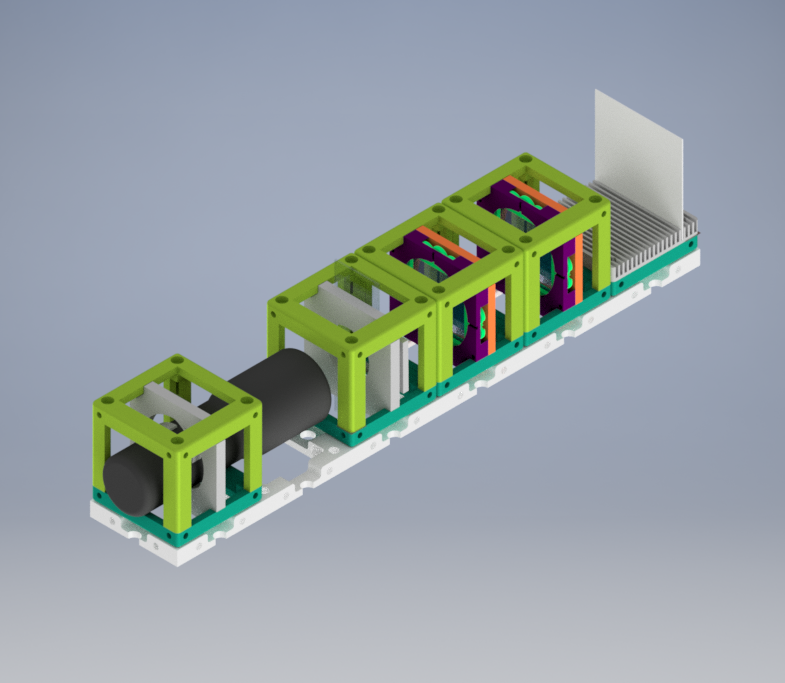
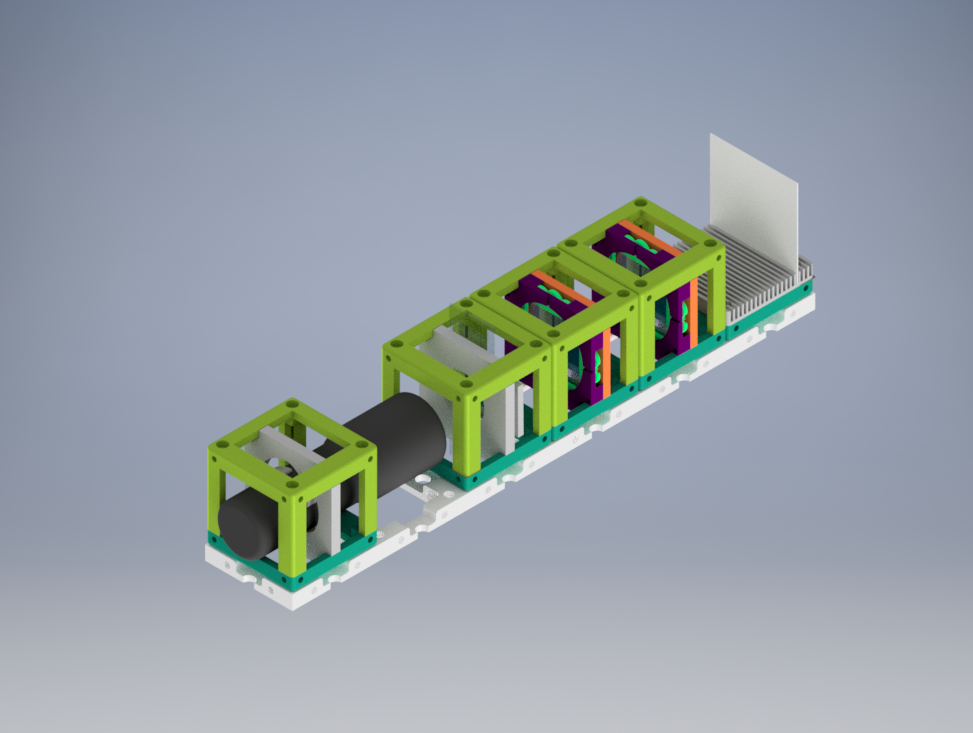
updates

Changed region(s): [[0.0917, 0.123, 0.9172, 0.8302]]

diff --git a/APPLICATIONS/APP_POL_Crossed_Polarizers/Readme.md b/APPLICATIONS/APP_POL_Crossed_Polarizers/Readme.md
@@ -33,50 +33,56 @@ Time to build a Crossed Polarizers setup!
 
 |  Name | Properties  |  Price | Link  | # |
 |---|---|---|---|---|
-|  4×1 Baseplate | - | 16.44 €  | [Base-plate](../../CAD/ASSEMBLY_Baseplate)  | 2|
+|  4×1 Baseplate | Skeleton of the System | 8.22 €  | [Base-plate](../../CAD/ASSEMBLY_Baseplate)  | 1|
 |  Module: Polarizer Cube | Linearly Polarizing Filter  |  €  | [Linear Polarizer](../../CAD/ASSEMBLY_POL_Polarizer_Holder)  | 2|
-|  Module: Sample Holder Cube | To insert the sample  | 2.5 €  | [Sample Holder](../../CAD/ASSEMBLY_CUBE_Sample_Holder)  | 1|
-|  Module: Sample Holder Comb | To hold the screen | 1.4 €  | [Screen](../../CAD/ASSEMBLY_CUBE_Sample_Comb)  | 1|
-|  Module: Flashlight Lamp Cube | -  | €  | [Flashlight](../../CAD/CAD/ASSEMBLY_CUBE_Flashlight)  | 1|
+|  Module: Sample Holder Cube | Holding the Sample (Not Used in Practice) | 2.5 €  | [Sample Holder](../../CAD/ASSEMBLY_CUBE_Sample_Holder)  | 1|
+|  Module: Display Screen | Holding the Screen (Not Used in Practice) | 1.4 €  | [Screen](../../CAD/ASSEMBLY_CUBE_Sample_Comb)  | 1|
+|  Module: Flashlight Lamp Cube | Light Source  | €  | [Flashlight](../../CAD/ASSEMBLY_CUBE_Flashlight)  | 1|
 
 
 ### <img src="./IMAGES/P.png" width="40">Parts to print
 
-* 2× [Base-plate 4×1](./STL/Assembly_base_4x1.stl)
-* 5× [Cube base 1×1](.STL/10_Cube_1x1_v2.stl)
-* 5x [Cube lid 1×1](./STL/10_Lid_1x1_v2.stl)
+* 1× [Base-plate 4×1](./STL/Assembly_base_4x1.stl)
+* 2× [Cube base 1×1](.STL/10_Cube_1x1_v2.stl)
+* 2x [Cube lid 1×1](./STL/10_Lid_1x1_v2.stl)
 * 2× [Polarizer Guide](./STL/20_Cube_Insert_Polarizer_Guide.stl)
 * 2× [Polarizer Wheel](./STL/20_Cube_Insert_Polarizer_Wheel.stl)
 * 2× [Polarizer Lid](./STL/20_Cube_Insert_Polarizer_Lid.stl)
-* 1× [Sample Holder](./STL/20_Cube_insert_Sample_holder.stl)
-* 1x [Sample Holder Clamp](./STL/20_Cube_Insert_Sample_clamp.stl)
-* 1× [Flashlight Holder](./STL/20_Cube_Insert_Holder-okular_v2.stl)
-* 1x [Sample Holder - comb](./STL/20_Cube_Sampleholder.stl)
+* _NOT USED_ 1× [Sample Holder](./STL/20_Cube_insert_Sample_holder.stl)
+* _NOT USED_ 1x [Sample Holder Clamp](./STL/20_Cube_Insert_Sample_clamp.stl)
+* _NOT USED_ 1x [Sample Holder - comb](./STL/20_Cube_Sampleholder.stl)
+*_NOT USED_ 1× [Flashlight Holder](./STL/20_Cube_Insert_Holder-okular_v2.stl)
+
 
 
 ## <img src="./IMAGES/B.png" width="40"> Additional components
 * Check out the [RESOURCES](../../TUTORIALS/RESOURCES) for more information!
-* 1× Linear Polarizer Film [🢂](https://amazon.de/-/en/Polarizing-A4-Sheet-Polarizer-Educational-Polarized/dp/B06XWXRB75/ref=pd_sbs_421_3/262-2115536-7173904?_encoding=UTF8&pd_rd_i=B06XWXRB75&pd_rd_r=b88e7340-b061-4e0b-8daa-8ec533fd7c71&pd_rd_w=qlkAY&pd_rd_wg=At9EZ&pf_rd_p=a03ac387-6e4d-4f6b-96b6-1853da0bb37b&pf_rd_r=49HX2Z4Q5KRZSQ2FWRQR&psc=1&refRID=49HX2Z4Q5KRZSQ2FWRQR)
+* 1× Linear Polarizing Sheet [🢂](https://amazon.de/-/en/Polarizing-A4-Sheet-Polarizer-Educational-Polarized/dp/B06XWXRB75/ref=pd_sbs_421_3/262-2115536-7173904?_encoding=UTF8&pd_rd_i=B06XWXRB75&pd_rd_r=b88e7340-b061-4e0b-8daa-8ec533fd7c71&pd_rd_w=qlkAY&pd_rd_wg=At9EZ&pf_rd_p=a03ac387-6e4d-4f6b-96b6-1853da0bb37b&pf_rd_r=49HX2Z4Q5KRZSQ2FWRQR&psc=1&refRID=49HX2Z4Q5KRZSQ2FWRQR)
 * 16× 5mm Ball magnets [🢂](https://www.magnetmax.de/Neodym-Kugelmagnete/Magnetkugel-Kugelmagnet-O-5-0-mm-Neodym-vernickelt-N40-haelt-400-g::158.html)
-* × - 24× Screws DIN912 ISO 4762 M3×12 mm [🢂](https://eshop.wuerth.de/Zylinderschraube-mit-Innensechskant-SHR-ZYL-ISO4762-88-IS25-A2K-M3X12/00843%20%2012.sku/de/DE/EUR/)
-* 1× flashlight [🢂](https://www.pollin.de/p/led-taschenlampe-alu-5-w-cree-led-3xmicro-schwarz-b-ware-535448)
-* Sample
-* White paper or cardboard as a screen
+* 8× (or 16× for both top and surface) Screws DIN912 ISO 4762 - M3×12 mm [🢂](https://eshop.wuerth.de/Zylinderschraube-mit-Innensechskant-SHR-ZYL-ISO4762-88-IS25-A2K-M3X12/00843%20%2012.sku/de/DE/EUR/)
+* _NOT USED_ 1× flashlight [🢂](https://www.pollin.de/p/led-taschenlampe-alu-5-w-cree-led-3xmicro-schwarz-b-ware-535448)
+* _NOT USED_ Sample
+* _NOT USED_ White paper or cardboard as a screen
 
 <p align="center">
-<img src="./IMAGES/Assembly_Crossed_Polarizers_2.png"
-width="350">
+<img src="./IMAGES/Assembly_Crossed_Polarizer.png"
+width="450">
 </p>  
 
 ## <img src="./IMAGES/A.png" width="40"> Assembly
 
 * [Baseplate](../../CAD/ASSEMBLY_Baseplate)
 * [Polarizer Cube](../../CAD/ASSEMBLY_POL_Polarizer_Holder)
-* [Sample Holder Cube](../../CAD/ASSEMBLY_CUBE_Sample_Holder)
-* [Sample Holder for Screen](../../CAD/ASSEMBLY_CUBE_Sample_Comb)
-* [Flashlight cube](../../CAD/ASSEMBLY_CUBE_Flashlight) : Simply insert the holder in a cube and close it as any other
+*  _NOT USED_ [Sample Holder Cube](../../CAD/ASSEMBLY_CUBE_Sample_Holder)
+*  _NOT USED_ [Sample Holder for Screen](../../CAD/ASSEMBLY_CUBE_Sample_Comb)
+*  _NOT USED_ [Flashlight cube](../../CAD/ASSEMBLY_CUBE_Flashlight) : Simply insert the holder in a cube and close it as any other
 
+If all written modules are used in the experiment, the setup will look like:
 
+<p align="center">
+<img src="./IMAGES/Assembly_Crossed_Polarizers_3.png"
+width="450">
+</p>  
 
 ## <img src="./IMAGES/E.png" width="40"> Results
 

diff --git a/TheBOX/PolarBOX/Readme.md b/TheBOX/PolarBOX/Readme.md
@@ -28,11 +28,16 @@ width="450">
 
 Polarized light can be produced from the common physical processes such as absorption, reflection, diffraction (or scattering), and birefringence.
 
-*add box photo here*
 <p align="center">
-<img src="./IMAGES/" width="640">
+<img src="./IMAGES/PolarBOX.JPG"
+width="350">
 </p>
 
+Box opening for a PolarBOX user:
+<p align="center">
+<img src="./IMAGES/polarbox-box-opening.gif"
+width="350">
+</p>
 
 ## <img src="./IMAGES/D_B_P_A.png" height="40"> Build the BOX
 A list of 3D-printed parts and necessary components is found in [BUILD_ME](./BUILD_ME), together with assembly guidelines and some printing tips and tricks.
@@ -45,6 +50,7 @@ Which experiments can we build with this box? Let's see!
 [LINK](../../APPLICATIONS/APP_POL_Crossed_Polarizers)
 
 <p align="center">
+<a href="https://github.com/bionanoimaging/UC2-GIT/tree/master/APPLICATIONS/APP_POL_Crossed_Polarizers">
 <img src="./IMAGES/crossed_polarizers_diagram_2.png"
 width="640">
 </p>
@@ -54,17 +60,28 @@ width="640">
 [LINK](../../APPLICATIONS/APP_POL_Three_Polarizers)
 
 <p align="center">
+<a href="https://github.com/bionanoimaging/UC2-GIT/tree/master/APPLICATIONS/APP_POL_Three_Polarizers">
 <img src="./IMAGES/three_polarizers_diagram.png"
 width="840">
 </p>
 
+### 3. Polarization Experiment using Optically Active Solution
+[LINK](../../APPLICATIONS/APP_POL_Polarization_using_optically_active_solution)
 
-### 3. Circular Polarizer
+<p align="center">
+<a href="https://github.com/bionanoimaging/UC2-GIT/tree/master/APPLICATIONS/APP_POL_Polarization_using_optically_active_solution">
+<img src="./IMAGES/Active_Solution_Experiment.png"
+width="840">
+</p>
+
+
+### 4. Circular Polarizer
 [LINK](../../APPLICATIONS/APP_POL_Circular_Polarizer)
 
 clockwise circular Polarizer:
 
 <p align="center">
+<a href="https://github.com/bionanoimaging/UC2-GIT/tree/master/APPLICATIONS/APP_POL_Circular_Polarizer">
 <img src="./IMAGES/right_circular_polarizers_diagram.png"
 width="640">
 </p>
@@ -72,41 +89,47 @@ width="640">
 Counter-clockwise circular Polarizer:
 
 <p align="center">
+<a href="https://github.com/bionanoimaging/UC2-GIT/tree/master/APPLICATIONS/APP_POL_Circular_Polarizer">
 <img src="./IMAGES/left_circular_polarizers_diagram.png"
 width="840">
 </p>
 
-### 4. Polarization of light using optically active solution
-[LINK](../../APPLICATIONS/APP_POL_Polarization_using_optically_active_solution)
-
-<p align="center">
-<img src="./IMAGES/active_solution_diagram.png"
-width="640">
-</p>
-
-### 5. Brewster Angle Experiment
+### 5. Brewster Angle Experiment (Polarization by Reflection)
 [LINK](../../APPLICATIONS/APP_POL_Brewster_Angle_Experiment)
 
 <p align="center">
+<a href="https://github.com/bionanoimaging/UC2-GIT/tree/master/APPLICATIONS/APP_POL_Brewster_Angle_Experiment">
 <img src="./IMAGES/brewster_angle_diagram_5.png"
 width="400">
 </p>
 
-### 6. Newton’s Rings Experiment
-[LINK](../../APPLICATIONS/APP_POL_Newtons_Rings_Experiment)
+### 6. Many Microscope Slides Experiment (Polarization by Transmission)
+[LINK](../../APPLICATIONS/APP_POL_Many_Microscope_Slides_Experiment)
 
 <p align="center">
-<a href="#"><img src="./IMAGES/newtons_rings_diagram.png"
-width="640"></a>
+<a href="https://github.com/bionanoimaging/UC2-GIT/tree/master/APPLICATIONS/APP_POL_Many_Microscope_Slides_Experiment">
+<img src="./IMAGES/Many_Microscope_Slides_Experiment.png"
+width="400">
 </p>
 
-### 7. Stress Birefringence
+### 7. Stress Birefringence Experiment
 [LINK](../../APPLICATIONS/APP_POL_Stress_Birefringence)
 
 <p align="center">
-<img src="./IMAGES/stress_birefriengce_diagram_2.png" width="540">
+<a href="https://github.com/bionanoimaging/UC2-GIT/tree/master/APPLICATIONS/APP_POL_Stress_Birefringence">
+<img src="./IMAGES/Stress_Birefringence.png"
+width="540">
 </p>
 
+
+### 8. Newton’s Rings Experiment
+[LINK](../../APPLICATIONS/APP_POL_Newtons_Rings_Experiment)
+
+<p align="center">
+<a href="https://github.com/bionanoimaging/UC2-GIT/tree/master/APPLICATIONS/APP_POL_Newtons_Rings_Experiment">
+<a href="#"><img src="./IMAGES/Newtons_Rings_3.png"
+width="640"></a>
+</p>
 
 
 ## <img src="./IMAGES/S.png" height="40"> Participate

diff --git a/TheBOX/Readme.md b/TheBOX/Readme.md
@@ -9,7 +9,11 @@ TheBOX is a number of optical experiments compiled into a ready-to-use box. We c
 </p>
 
 ## Choose [PolarBOX](./PolarBOX) for schools and demonstration of basic optical principles
-
+<p align="center">
+<a href="https://github.com/bionanoimaging/UC2-GIT/tree/master/TheBOX/PolarBOX">
+<img src="./IMAGES/BOX_polar.JPG"
+width="400"></a>
+</p>
 
 ## Choose [CourseBOX](./CourseBOX) for Basic Microscopy and Optical Alignment courses:
 <p align="center">
